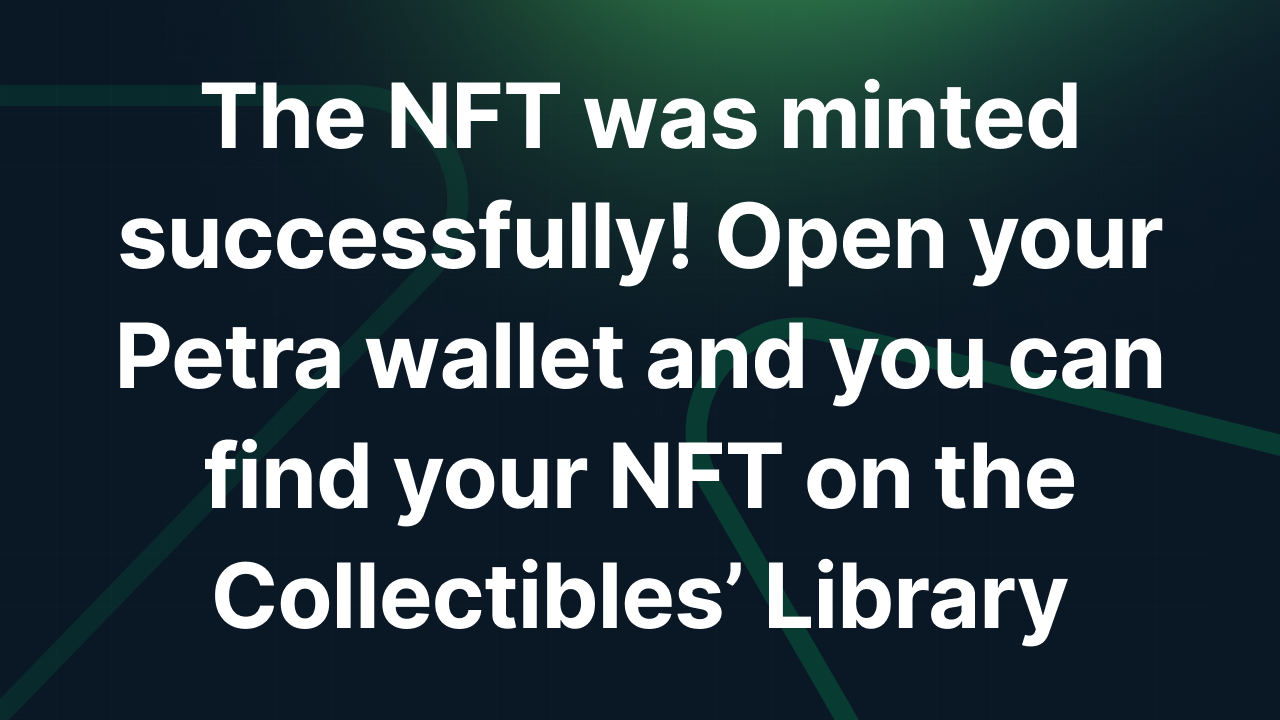
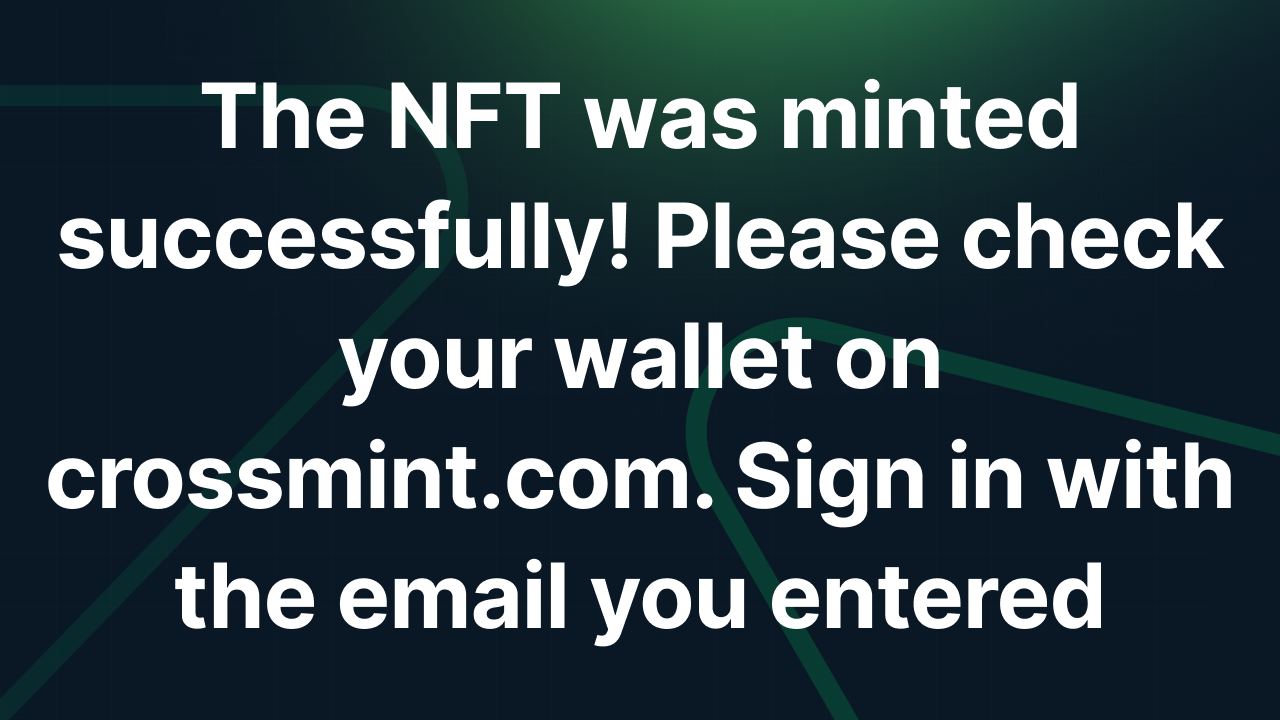
design change

diff --git a/src/app/api/frame/dynamic/route.ts b/src/app/api/frame/dynamic/route.ts
@@ -3,6 +3,7 @@ import {
   getFrameMessage,
   getFrameHtmlResponse,
 } from "@coinbase/onchainkit";
+import { Frame, FrameFlattened } from "frames.js";
 import { getFarcasterUserAddress } from "@coinbase/onchainkit/farcaster";
 import { randomInt } from "crypto";
 import { NextRequest, NextResponse } from "next/server";
@@ -99,7 +100,7 @@ export async function POST(req: NextRequest): Promise<Response> {
           {
             label: "Your NFT image will be updated soon!",
             action: "link",
-            target: `https://${env}.crossmint.com/user/collection`,
+            target: `https://${env}.crossmint.com//signin?callbackUrl=/user/collection/?utm_source=rohit&utm_medium=github&utm_campaign=frameworks-hack`,
           },
         ],
       })
